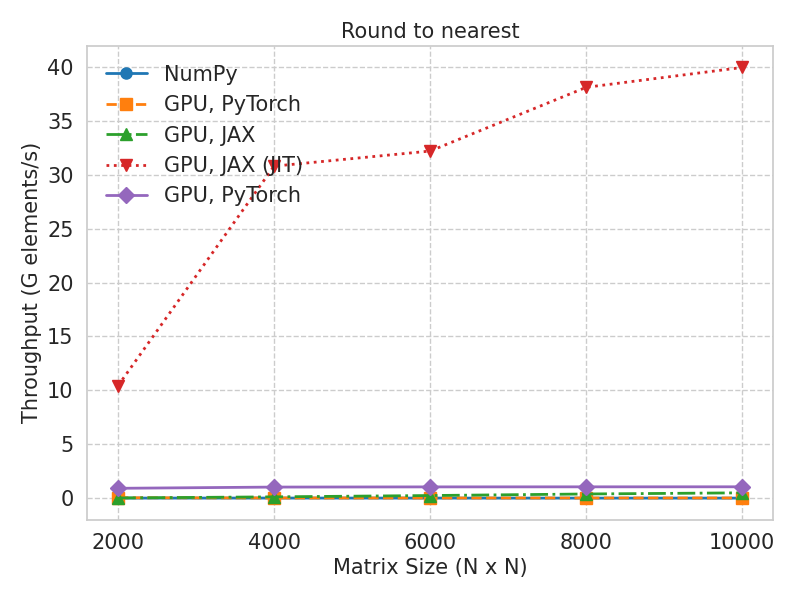
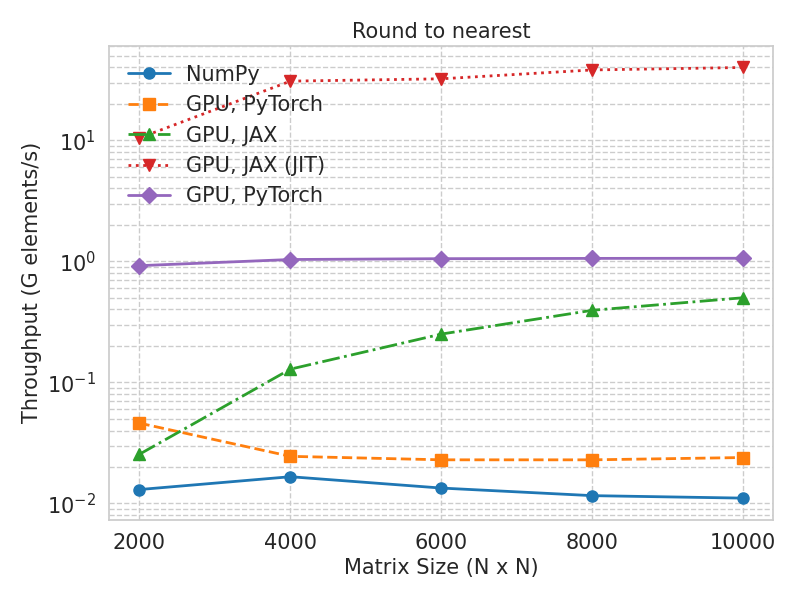
update results

diff --git a/exps/compare_gfloat_plot.py b/exps/compare_gfloat_plot.py
@@ -67,7 +67,7 @@ for i, backend in enumerate(["numpy", "jax", "torch"]):
             label=f"gfloat {backend_labels[backend]}"
         )
 
-ax_left.set_title(f"Quantization Performance — {short_name} (log scale)", fontsize=fontsize + 1)
+ax_left.set_title(f"Quantization Performance — {short_name}", fontsize=fontsize + 1)
 ax_left.set_xlabel("Matrix Size (N×N)", fontsize=fontsize)
 ax_left.set_ylabel("Average Time (seconds)", fontsize=fontsize)
 ax_left.tick_params(axis='both', labelsize=fontsize-1)
@@ -95,7 +95,7 @@ for i, backend in enumerate(["numpy", "jax", "torch"]):
             label=f"gfloat {backend_labels[backend]}"
         )
 
-ax_right.set_title(f"Quantization Performance — {short_name} (log scale)", fontsize=fontsize + 1)
+ax_right.set_title(f"Quantization Performance — {short_name}", fontsize=fontsize + 1)
 ax_right.set_xlabel("Matrix Size (N×N)", fontsize=fontsize)
 # No ylabel on right since sharey=True
 ax_right.tick_params(axis='both', labelsize=fontsize-1)

diff --git a/exps/backend_breakdown_plot.py b/exps/backend_breakdown_plot.py
@@ -20,7 +20,7 @@ rounding_mode_names = [
 operations = ["quantize_only"]
 metrics = ["time", "throughput"]
 metric_names = {"time": "Runtime (seconds)", "throughput": "Throughput (G elements/s)"}
-y_scales = {"time": "log", "throughput": "linear"}
+y_scales = {"time": "log", "throughput": "log"}
 
 backend_types = ["cpu", "gpu"]
 backend_labels = {
